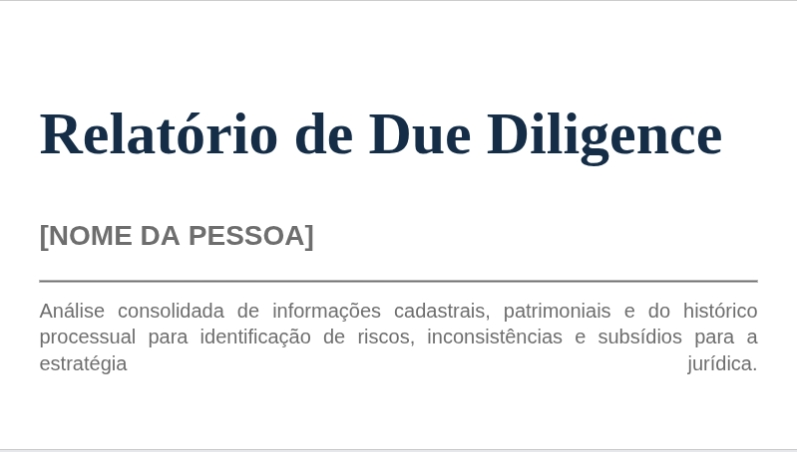
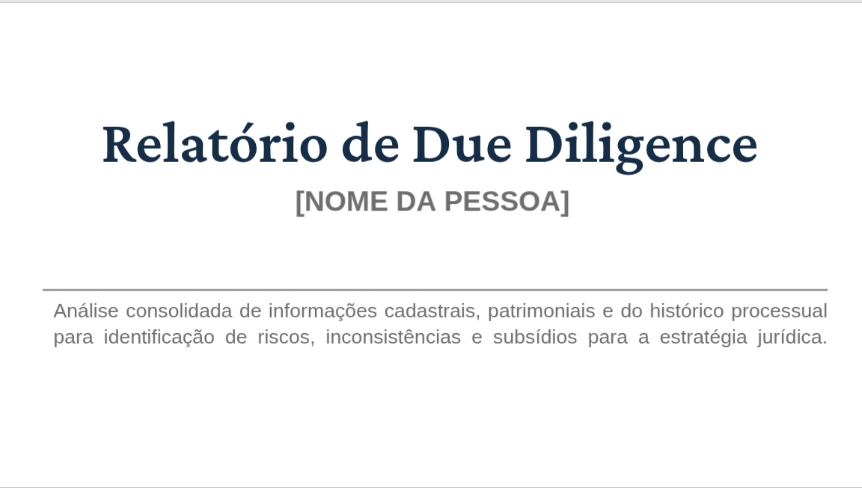
Fix: Export

diff --git a/pages/ReportPage.tsx b/pages/ReportPage.tsx
@@ -2,69 +2,38 @@ import React, { useRef, useEffect, useState } from 'react';
 import * as fabric from 'fabric';
 import pptxgen from "pptxgenjs";
 
-// --- DEFINIÇÃO DO TEMPLATE DE ALTA FIDELIDADE ---
-
-// Fatores de conversão baseados no tamanho do slide (40.64cm) e do canvas (1152px)
-const cmToPx = (cm: number) => (cm / 40.64) * 1152;
-const ptToPx = (pt: number) => pt * (96 / 72); // Conversão de pontos (fonte) para pixels
-
+// --- DEFINIÇÃO DO TEMPLATE ---
 const slideTemplates = [
-  // Slide 1: Capa (Alta Fidelidade com Conversão Precisa)
+  // Slide 1: Capa (Valores iniciais para calibração)
   {
     "version": "5.3.0", "objects": [
-      // Título Principal
-      { "type": "textbox", "left": cmToPx(0), "top": cmToPx(5), "width": cmToPx(40.5), "height": cmToPx(3), "fontSize": ptToPx(60), "fontFamily": "Crimson Pro", "fontWeight": 600, "fill": "#152D47", "text": "Relatório de Due Diligence", "textAlign": "center" },
-      // Nome da Pessoa (Placeholder)
-      { "type": "textbox", "left": cmToPx(13.1), "top": cmToPx(8.65), "width": cmToPx(14.55), "height": cmToPx(1.35), "fontSize": ptToPx(28), "fontFamily": "Arial", "fontWeight": "bold", "fill": "#6E6E6E", "text": "[NOME DA PESSOA]", "textAlign": "center" },
-      // Linha Horizontal
-      { "type": "rect", "left": cmToPx(2), "top": cmToPx(13.5), "height": 2, "width": cmToPx(37), "fill": "#6E6E6E", "selectable": false, "hoverCursor": "default" },
-      // Texto Descritivo
-      { "type": "textbox", "left": cmToPx(2.5), "top": cmToPx(14), "width": cmToPx(36.5), "height": cmToPx(1.82), "fontSize": ptToPx(20), "fontFamily": "Arial", "fill": "#6E6E6E", "textAlign": "justify", "text": "Análise consolidada de informações cadastrais, patrimoniais e do histórico processual para identificação de riscos, inconsistências e subsídios para a estratégia jurídica." }
+      { "type": "textbox", "left": 50, "top": 150, "width": 1000, "fontSize": 75, "fontFamily": "Crimson Pro", "fontWeight": 600, "fill": "#152D47", "text": "Relatório de Due Diligence", "textAlign": "left" },
+      { "type": "textbox", "left": 490, "top": 335, "width": 400, "fontSize": 32, "fontFamily": "Arial", "fontWeight": "bold", "fill": "#6E6E6E", "text": "[NOME DA PESSOA]", "textAlign": "center" },
+      { "type": "rect", "left": 75, "top": 500, "height": 2, "width": 1000, "fill": "#6E6E6E" },
+      { "type": "textbox", "left": 75, "top": 520, "width": 1000, "fontSize": 22, "fontFamily": "Arial", "fill": "#6E6E6E", "textAlign": "justify", "text": "Análise consolidada de informações cadastrais, patrimoniais e do histórico processual para identificação de riscos, inconsistências e subsídios para a estratégia jurídica." }
     ], "background": "#FFFFFF"
   },
-  // Slides 2 a 6 mantêm o design anterior por enquanto
-  { "version": "5.3.0", "objects": [
-      { "type": "textbox", "left": 50, "top": 40, "width": 700, "fontSize": 32, "fontWeight": "bold", "fill": "#0A2D4D", "text": "ÍNDICE" },
-      { "type": "rect", "left": 50, "top": 85, "height": 3, "width": 700, "fill": "#0077B6", "selectable": false, "hoverCursor": "default" },
-      ...["OBJETO DA INVESTIGAÇÃO", "FONTES DE PESQUISA", "INFORMAÇÕES CADASTRAIS", "SÓCIOS E PARTICIPAÇÕES", "PROCESSOS JUDICIAIS E EXTRAJUDICIAIS", "MÍDIA E REPUTAÇÃO", "CONCLUSÃO"].map((item, index) => (
-        { "type": "textbox", "left": 70, "top": 120 + (index * 40), "width": 650, "fontSize": 18, "fill": "#333333", "text": `${index + 1}. ${item}` }
-      ))
-    ], "background": "#F8F9FA"
-  },
-  { "version": "5.3.0", "objects": [
-      { "type": "textbox", "left": 50, "top": 40, "width": 700, "fontSize": 28, "fontWeight": "bold", "fill": "#0A2D4D", "text": "1. OBJETO DA INVESTIGAÇÃO" },
-      { "type": "rect", "left": 50, "top": 85, "height": 3, "width": 700, "fill": "#0077B6", "selectable": false, "hoverCursor": "default" },
-      { "type": "textbox", "left": 50, "top": 130, "width": 700, "fontSize": 16, "textAlign": "justify", "fill": "#333333", "text": "O presente relatório tem por objeto a realização de Due Diligence sobre a sociedade [NOME DA SOCIEDADE], com o objetivo de identificar e analisar informações relevantes para a tomada de decisão, abrangendo aspectos societários, fiscais, judiciais e reputacionais." }
-    ], "background": "#F8F9FA"
-  },
-  { "version": "5.3.0", "objects": [
-      { "type": "textbox", "left": 50, "top": 40, "width": 700, "fontSize": 28, "fontWeight": "bold", "fill": "#0A2D4D", "text": "2. FONTES DE PESQUISA" },
-      { "type": "rect", "left": 50, "top": 85, "height": 3, "width": 700, "fill": "#0077B6", "selectable": false, "hoverCursor": "default" },
-      ...["Receita Federal do Brasil (RFB)", "Sintegra (ICMS)", "Juntas Comerciais", "Tribunais de Justiça (Estaduais e Federais)", "Diários Oficiais (DOU, DOE)", "Bureaus de crédito e risco", "Mídia nacional e internacional"].flatMap((item, index) => ([
-        { "type": "rect", "height": 8, "width": 8, "fill": "#0A2D4D", "left": 50, "top": 135 + (index * 35), "selectable": false, "hoverCursor": "default" },
-        { "type": "textbox", "left": 75, "top": 130 + (index * 35), "width": 650, "fontSize": 16, "fill": "#333333", "text": item }
-      ]))
-    ], "background": "#F8F9FA"
-  },
-  { "version": "5.3.0", "objects": [
-      { "type": "textbox", "left": 50, "top": 40, "width": 700, "fontSize": 28, "fontWeight": "bold", "fill": "#0A2D4D", "text": "3. INFORMAÇÕES CADASTRAIS" },
-      { "type": "rect", "left": 50, "top": 85, "height": 3, "width": 700, "fill": "#0077B6", "selectable": false, "hoverCursor": "default" },
-      ...[
-        { label: "RAZÃO SOCIAL", value: "[VALOR]" }, { label: "NOME FANTASIA", value: "[VALOR]" }, { label: "CNPJ", value: "[VALOR]" }, { label: "DATA DE ABERTURA", value: "[VALOR]" },
-        { label: "ENDEREÇO", value: "[VALOR]" }, { label: "CAPITAL SOCIAL", value: "[VALOR]" }, { label: "ATIVIDADE PRINCIPAL (CNAE)", value: "[VALOR]" }, { label: "SITUAÇÃO CADASTRAL", value: "[VALOR]" },
-      ].flatMap((item, index) => ([
-        { "type": "textbox", "left": 50, "top": 130 + (index * 35), "width": 300, "fontSize": 15, "fontWeight": "bold", "fill": "#333333", "text": item.label },
-        { "type": "textbox", "left": 370, "top": 130 + (index * 35), "width": 400, "fontSize": 15, "fill": "#333333", "text": item.value }
-      ]))
-    ], "background": "#F8F9FA"
-  },
-  { "version": "5.3.0", "objects": [
-      { "type": "textbox", "left": 50, "top": 40, "width": 700, "fontSize": 28, "fontWeight": "bold", "fill": "#0A2D4D", "text": "7. CONCLUSÃO" },
-      { "type": "rect", "left": 50, "top": 85, "height": 3, "width": 700, "fill": "#0077B6", "selectable": false, "hoverCursor": "default" },
-      { "type": "textbox", "left": 50, "top": 130, "width": 700, "fontSize": 16, "textAlign": "justify", "fill": "#333333", "text": "A partir da análise das informações coletadas, conclui-se que [APRESENTAR A CONCLUSÃO DA ANÁLISE]. Recomenda-se [APRESENTAR RECOMENDAÇÕES]." }
-    ], "background": "#F8F9FA"
-  }
+  { "version": "5.3.0", "objects": [ { "type": "textbox", "text": "Slide 2" } ], "background": "#F0F0F0" },
+  { "version": "5.3.0", "objects": [ { "type": "textbox", "text": "Slide 3" } ], "background": "#F0F0F0" },
 ];
+
+// --- COMPONENTE DA FERRAMENTA DE CALIBRAÇÃO ---
+const CalibrationTool = ({ activeObjectProps, onPropChange }: { activeObjectProps: any, onPropChange: (prop: string, value: string) => void }) => {
+  if (Object.keys(activeObjectProps).length === 0) return null;
+
+  return (
+    <div className="bg-gray-800 text-white p-4 rounded-lg mt-4">
+      <h3 className="text-lg font-bold mb-2">Ferramenta de Calibração</h3>
+      <div className="grid grid-cols-3 gap-4">
+        <div><label>Left (x):</label><input type="number" value={activeObjectProps.left} onChange={e => onPropChange('left', e.target.value)} className="w-full bg-gray-700 p-1 rounded" /></div>
+        <div><label>Top (y):</label><input type="number" value={activeObjectProps.top} onChange={e => onPropChange('top', e.target.value)} className="w-full bg-gray-700 p-1 rounded" /></div>
+        <div><label>Width:</label><input type="number" value={activeObjectProps.width} onChange={e => onPropChange('width', e.target.value)} className="w-full bg-gray-700 p-1 rounded" /></div>
+        <div><label>Height:</label><input type="number" value={activeObjectProps.height} onChange={e => onPropChange('height', e.target.value)} className="w-full bg-gray-700 p-1 rounded" /></div>
+        {activeObjectProps.fontSize && <div><label>Font Size:</label><input type="number" value={activeObjectProps.fontSize} onChange={e => onPropChange('fontSize', e.target.value)} className="w-full bg-gray-700 p-1 rounded" /></div>}
+      </div>
+    </div>
+  );
+};
 
 const ReportPage: React.FC = () => {
   const canvasRef = useRef<HTMLCanvasElement>(null);
@@ -72,31 +41,66 @@ const ReportPage: React.FC = () => {
   
   const [slides, setSlides] = useState<any[]>(() => JSON.parse(JSON.stringify(slideTemplates)));
   const [activeSlide, setActiveSlide] = useState(0);
+  const [isCalibrating, setIsCalibrating] = useState(false);
+  const [activeObjectProps, setActiveObjectProps] = useState<any>({});
+
+  const updateActiveObjectProps = (obj: fabric.Object | null) => {
+    if (obj) {
+      const props: any = {
+        left: obj.left?.toFixed(0) || 0,
+        top: obj.top?.toFixed(0) || 0,
+        width: obj.getScaledWidth().toFixed(0),
+        height: obj.getScaledHeight().toFixed(0),
+      };
+      if ((obj as fabric.Textbox).fontSize) {
+        props.fontSize = (obj as fabric.Textbox).fontSize?.toFixed(0) || 0;
+      }
+      setActiveObjectProps(props);
+    } else {
+      setActiveObjectProps({});
+    }
+  };
 
   useEffect(() => {
     if (!canvasRef.current) return;
-    const canvas = new fabric.Canvas(canvasRef.current, {
-      width: 1152, // Proporção 16:9 (baseado em 40.64cm)
-      height: 648, // Proporção 16:9 (baseado em 22.86cm)
-      allowTouchScrolling: true,
-    });
+    const canvas = new fabric.Canvas(canvasRef.current, { width: 1152, height: 648, allowTouchScrolling: true });
     fabricCanvasRef.current = canvas;
-    return () => {
-      fabricCanvasRef.current?.dispose();
-      fabricCanvasRef.current = null;
-    };
+
+    const onObjectSelected = (e: fabric.IEvent) => updateActiveObjectProps(e.target || null);
+    const onObjectModified = (e: fabric.IEvent) => updateActiveObjectProps(e.target || null);
+
+    canvas.on('selection:created', onObjectSelected);
+    canvas.on('selection:updated', onObjectSelected);
+    canvas.on('selection:cleared', () => updateActiveObjectProps(null));
+    canvas.on('object:modified', onObjectModified);
+
+    return () => { canvas.dispose(); };
   }, []);
 
   useEffect(() => {
     const canvas = fabricCanvasRef.current;
     if (canvas) {
       canvas.loadFromJSON(slides[activeSlide], () => {
-        requestAnimationFrame(() => {
-            canvas.renderAll();
-        });
+        canvas.renderAll();
+        updateActiveObjectProps(null);
       });
     }
-  }, [activeSlide, slides]);
+  }, [activeSlide]);
+
+  const handlePropChange = (prop: string, value: string) => {
+    const canvas = fabricCanvasRef.current;
+    const obj = canvas?.getActiveObject();
+    if (obj) {
+      const numericValue = parseFloat(value);
+      if (!isNaN(numericValue)) {
+        obj.set(prop as any, numericValue);
+        if (prop === 'width') obj.scaleX = numericValue / obj.width!;
+        if (prop === 'height') obj.scaleY = numericValue / obj.height!;
+        canvas?.requestRenderAll();
+        updateActiveObjectProps(obj);
+      }
+    }
+  };
 
   const changeSlide = (newSlideIndex: number) => {
     const canvas = fabricCanvasRef.current;
@@ -108,61 +112,72 @@ const ReportPage: React.FC = () => {
     setActiveSlide(newSlideIndex);
   };
 
-  const exportReport = () => {
+  const exportReport = async () => {
     const canvas = fabricCanvasRef.current;
     if (!canvas) return;
+
     const finalSlides = [...slides];
     finalSlides[activeSlide] = canvas.toDatalessJSON();
-    const pptx = new pptxgen();
-    
-    // Definindo o tamanho do slide no pptx para corresponder ao original
-    pptx.layout = { name: 'LAYOUT_WIDE', width: 16, height: 9 };
 
-    finalSlides.forEach(slideData => {
+    const pptx = new pptxgen();
+    pptx.defineLayout({ name: 'LAYOUT_CUSTOM_16X9', width: 16, height: 9 });
+    pptx.layout = 'LAYOUT_CUSTOM_16X9';
+
+    for (const slideData of finalSlides) {
       const slide = pptx.addSlide();
       if (slideData.background) {
         slide.background = { color: slideData.background.replace('#', '') };
       }
+      
+      // Carrega temporariamente o slide no canvas para obter objetos reais
+      await new Promise<void>(resolve => canvas.loadFromJSON(slideData, () => resolve()));
+      const objects = canvas.getObjects();
 
-      slideData.objects.forEach((obj: any) => {
-        // Conversão de pixels do canvas para polegadas do pptx
+      objects.forEach((obj: fabric.Object) => {
         const inch = (px: number, total: number) => (px / total) * (total === 1152 ? 16 : 9);
-
         const commonOptions = {
-          x: inch(obj.left, 1152),
-          y: inch(obj.top, 648),
-          w: inch(obj.width * (obj.scaleX || 1), 1152),
-          h: inch(obj.height * (obj.scaleY || 1), 648),
+          x: inch(obj.left!, 1152),
+          y: inch(obj.top!, 648),
+          w: inch(obj.getScaledWidth(), 1152),
+          h: inch(obj.getScaledHeight(), 648),
         };
 
         if (obj.type === 'textbox') {
-          slide.addText(obj.text, {
+          const textbox = obj as fabric.Textbox;
+          slide.addText(textbox.text!, {
             ...commonOptions,
-            fontSize: obj.fontSize, // Usando o tamanho em pt diretamente
-            fontFace: obj.fontFamily,
-            color: (obj.fill || '000000').replace('#', ''),
-            bold: obj.fontWeight === 'bold' || obj.fontWeight === 600,
-            italic: obj.fontStyle === 'italic',
-            underline: obj.underline,
-            align: obj.textAlign?.toLowerCase() as any || 'left',
+            fontSize: (textbox.fontSize || 12) * 0.75,
+            fontFace: textbox.fontFamily,
+            color: (textbox.fill || '000000').toString().replace('#', ''),
+            bold: textbox.fontWeight === 'bold' || textbox.fontWeight === 600,
+            italic: textbox.fontStyle === 'italic',
+            underline: textbox.underline,
+            align: textbox.textAlign?.toLowerCase() as any || 'left',
           });
-        } else if (obj.type === 'rect' || obj.type === 'circle') {
-          slide.addShape(obj.type === 'rect' ? pptx.shapes.RECTANGLE : pptx.shapes.OVAL, {
+        } else if (obj.type === 'rect') {
+          slide.addShape(pptx.shapes.RECTANGLE, {
             ...commonOptions,
-            fill: { color: (obj.fill || '000000').replace('#', '') },
-            line: { color: (obj.fill || '000000').replace('#', ''), width: 0 },
+            fill: { color: (obj.fill || '000000').toString().replace('#', '') },
+            line: { width: 0 },
           });
         }
       });
-    });
+    }
+    
+    // Restaura o slide ativo no canvas
+    canvas.loadFromJSON(finalSlides[activeSlide], () => canvas.renderAll());
+
     pptx.writeFile({ fileName: "Relatorio_Final.pptx" });
   };
 
   return (
     <div className="p-8">
       <div className="flex justify-between items-center mb-6 pb-4 border-b">
-        <h1 className="text-3xl font-bold text-gray-800">Editor de Relatório Interativo</h1>
+        <h1 className="text-3xl font-bold text-gray-800">Editor de Relatório</h1>
         <div className="flex items-center space-x-4">
+          <button onClick={() => setIsCalibrating(!isCalibrating)} className={`px-4 py-2 rounded-lg ${isCalibrating ? 'bg-green-500 text-white' : 'bg-gray-300'}`}>
+            Modo de Calibração
+          </button>
           <div className="flex items-center space-x-2">
             <button onClick={() => changeSlide(activeSlide - 1)} disabled={activeSlide === 0} className="px-4 py-2 bg-gray-200 rounded-lg disabled:opacity-50">Anterior</button>
             <span className="font-semibold">{`Slide ${activeSlide + 1} de ${slides.length}`}</span>
@@ -173,12 +188,16 @@ const ReportPage: React.FC = () => {
           </button>
         </div>
       </div>
+
       <div className="w-full flex justify-center bg-gray-200 p-4 shadow-inner">
         <canvas ref={canvasRef} style={{ border: '1px solid #ccc' }} />
       </div>
-       <p className="text-center text-gray-500 mt-4">
-          Clique nos textos para editar. Arraste para mover. Use as alças para redimensionar.
-        </p>
+      
+      {isCalibrating && <CalibrationTool activeObjectProps={activeObjectProps} onPropChange={handlePropChange} />}
+
+      <p className="text-center text-gray-500 mt-4">
+          {isCalibrating ? "Use o painel para ajustar o objeto selecionado ou arraste/redimensione com o mouse." : "Clique nos textos para editar."}
+      </p>
     </div>
   );
 };
